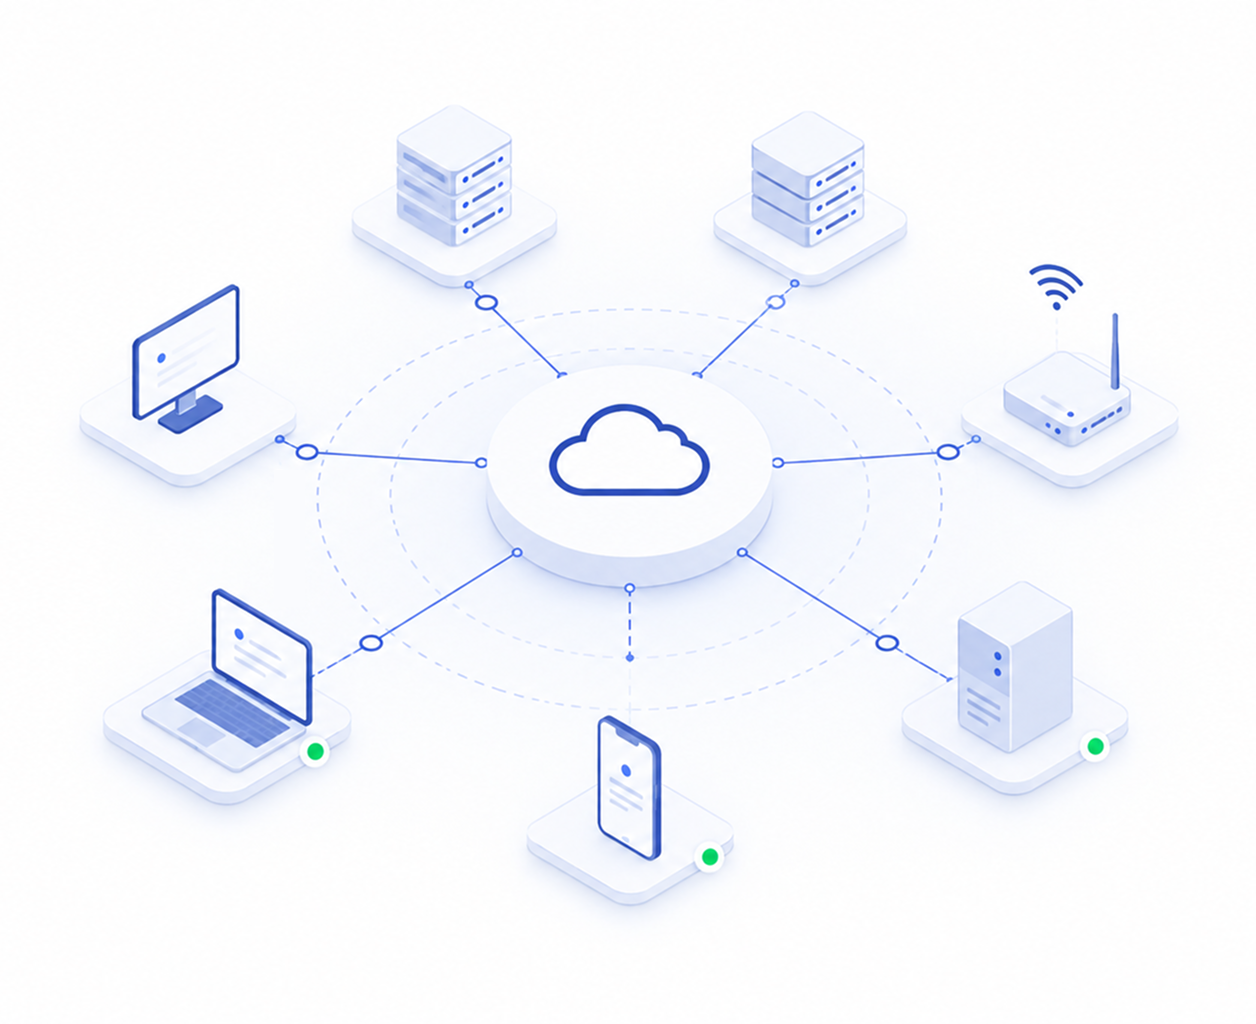
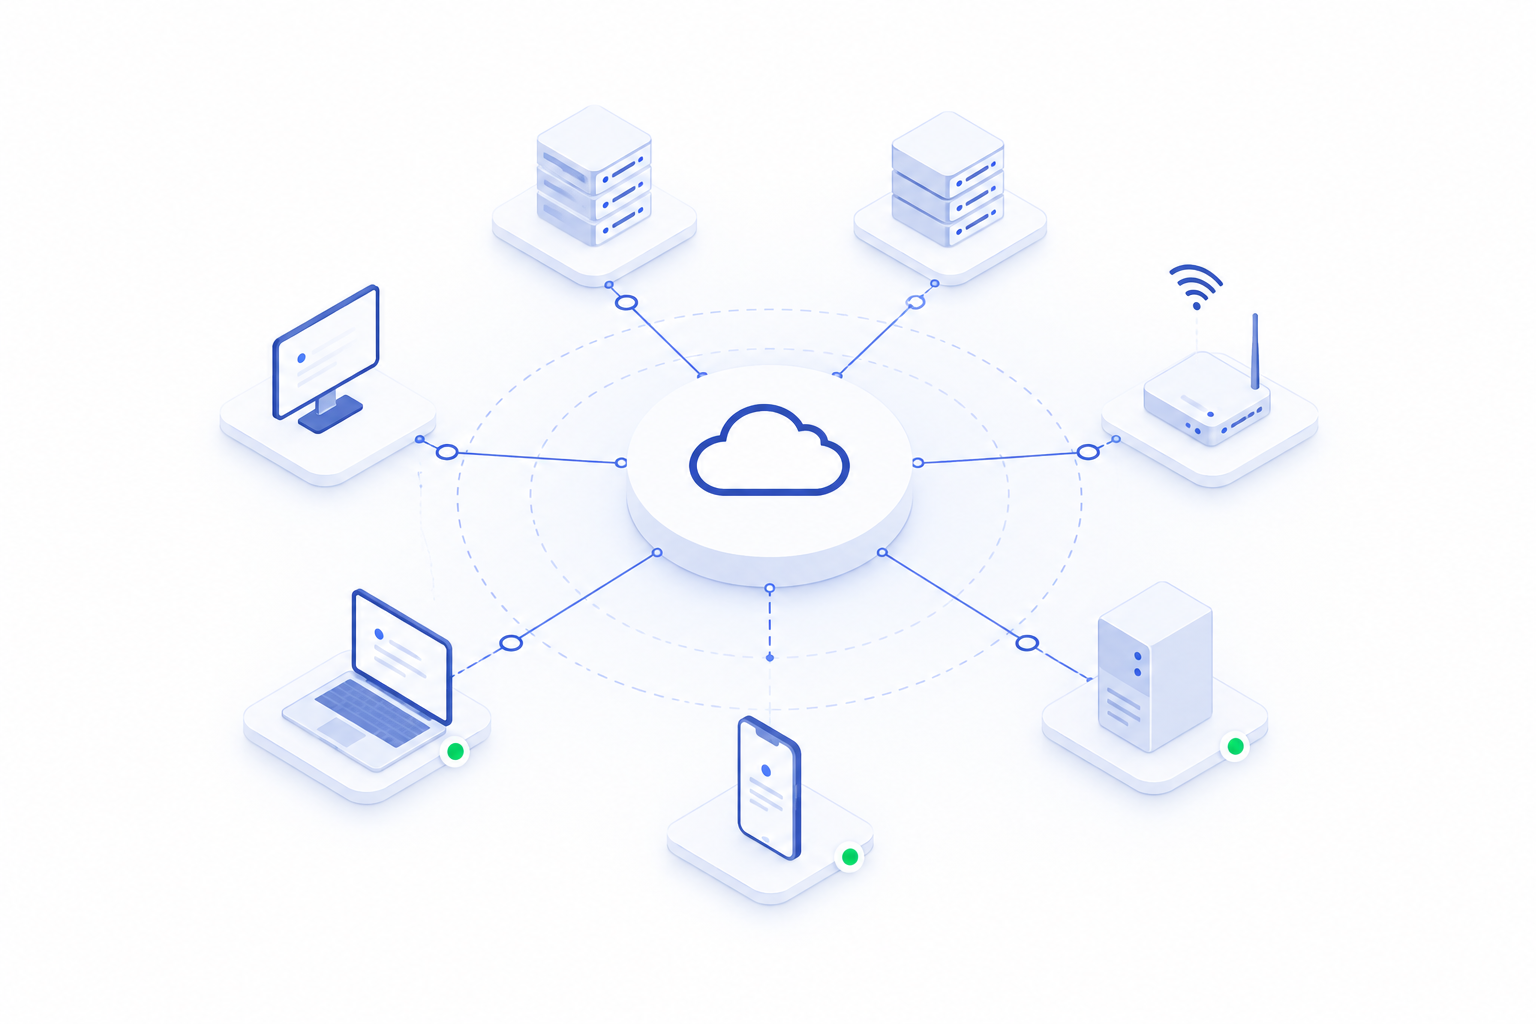
format

diff --git a/docs/.vitepress/theme/custom.css b/docs/.vitepress/theme/custom.css
@@ -7,7 +7,15 @@
   max-height: 500px;
 }
 
-@media (min-width: 640px) {
+.VPHero .main .heading .name.clip {
+  color: transparent;
+  background: linear-gradient(to right, #325ff7, #3148a4) !important;
+  -webkit-background-clip: text;
+  background-clip: text;
+  -webkit-text-fill-color: transparent !important;
+}
+
+@media (max-width: 640px) {
   .VPHero .image .image-src {
     max-width: 380px;
     max-height: 380px;

diff --git a/docs/.vitepress/config.ts b/docs/.vitepress/config.ts
@@ -164,6 +164,7 @@ export default defineConfig({
       link: '/ru/',
       description: 'Интерактивная карта инфраструктурных активов для Vue 3 на базе Vue Flow',
       themeConfig: {
+        siteTitle: 'VueAssetMap',
         nav: [
           { text: 'Руководство', link: '/ru/guide/getting-started' },
           { text: 'API', link: '/ru/api/' },

diff --git a/docs/ru/index.md b/docs/ru/index.md
@@ -2,7 +2,7 @@
 layout: home
 
 hero:
-  name: vue-asset-map
+  name: VueAssetMap
   text: Карта инфраструктурных активов для Vue 3
   tagline: Компонент для сущностей, связей и представлений одного графа, с поиском, фильтрами и трассировкой пути.
   image:
